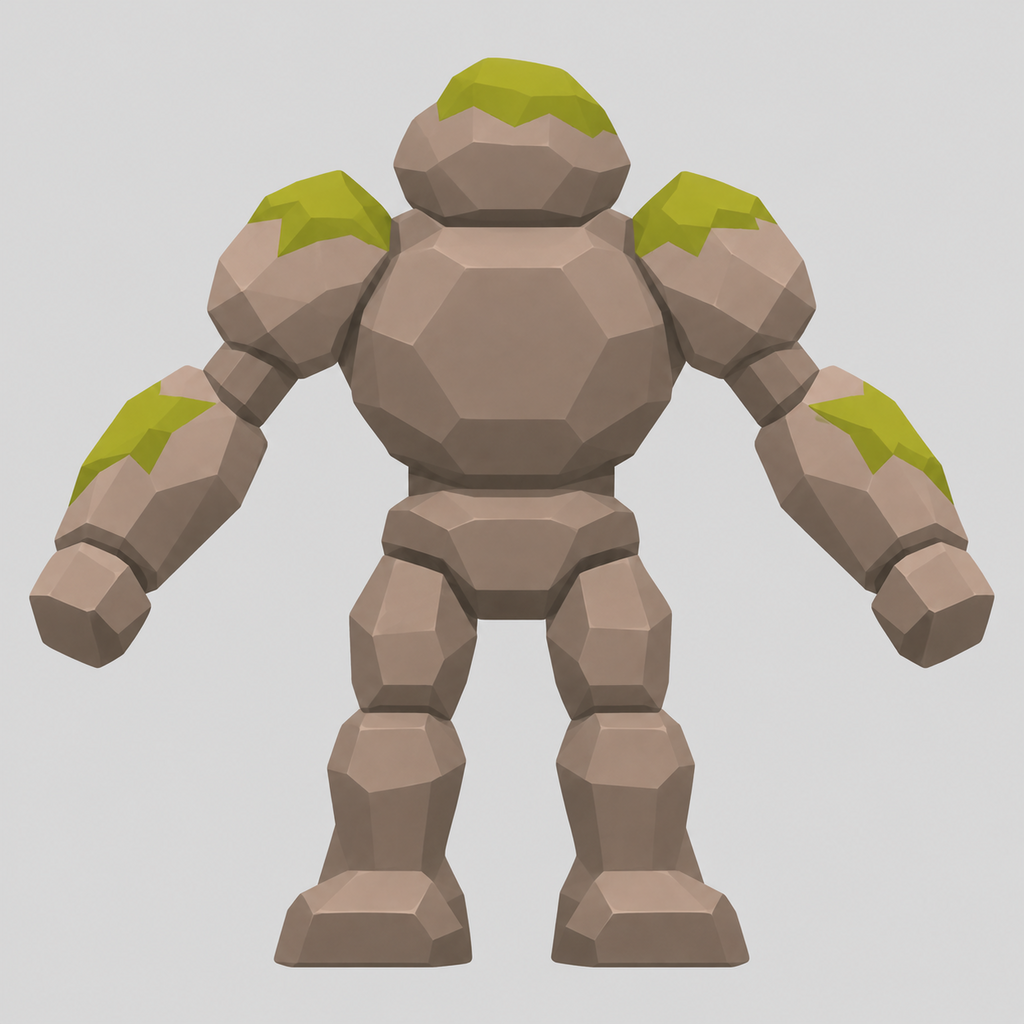
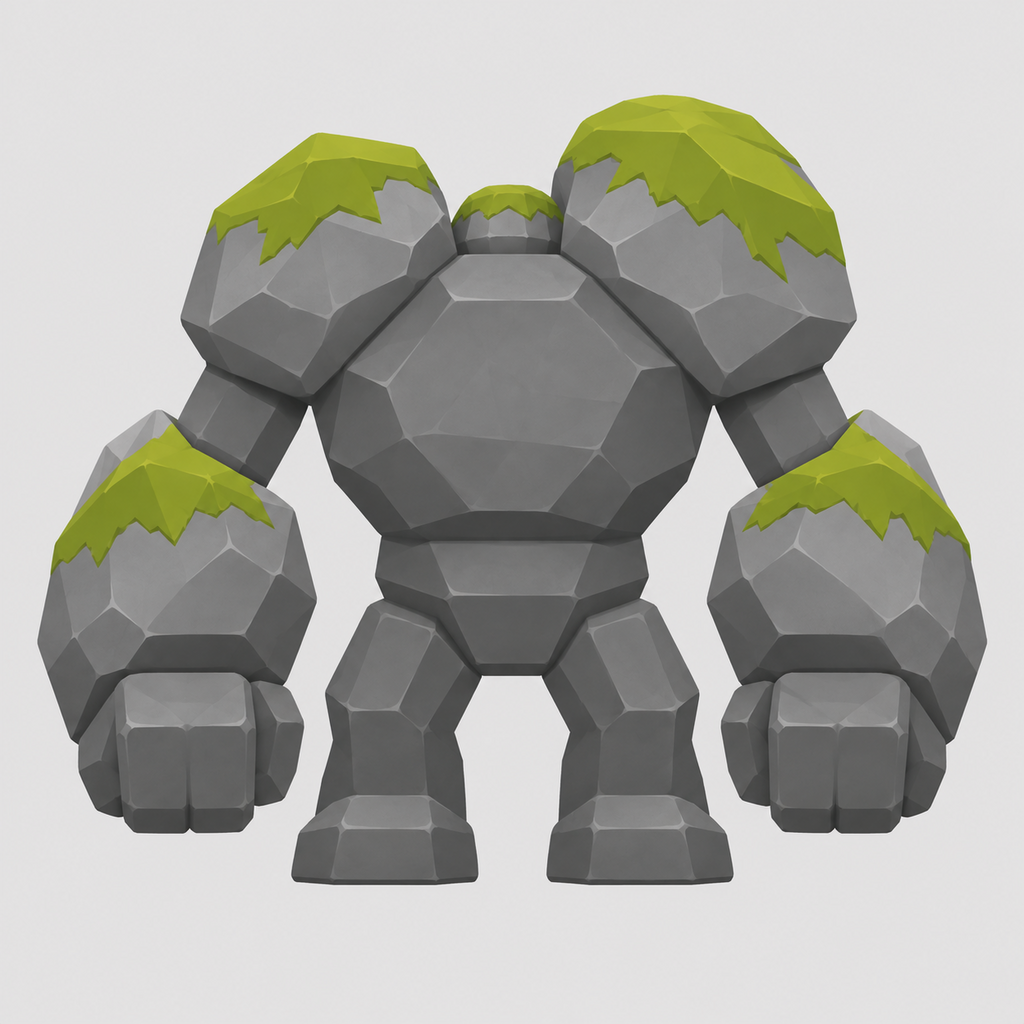
art: revise T8c golem to gorilla proportions

diff --git a/art_inbox/YEU_CAU_STYLE.md b/art_inbox/YEU_CAU_STYLE.md
@@ -242,3 +242,5 @@ T8b ghi "dáng người, A-pose tay dang 45°". **Bám sát ảnh mẫu `art_inb
 - Ba ảnh `_front`, `_side`, `_back` cùng tư thế (quy tắc T8b), nền xám nhạt trơn, không đĩa đất.
 
 Làm xong golem thì commit + push nhánh `thu-asset-tu-lam`, rồi **DỪNG** báo người dùng duyệt.
+
+Đã làm lại đủ 3 hướng: thay dáng người máy đá thon, màu be bằng tỉ lệ khỉ đột và đá xám theo `golem_ref.png`.
